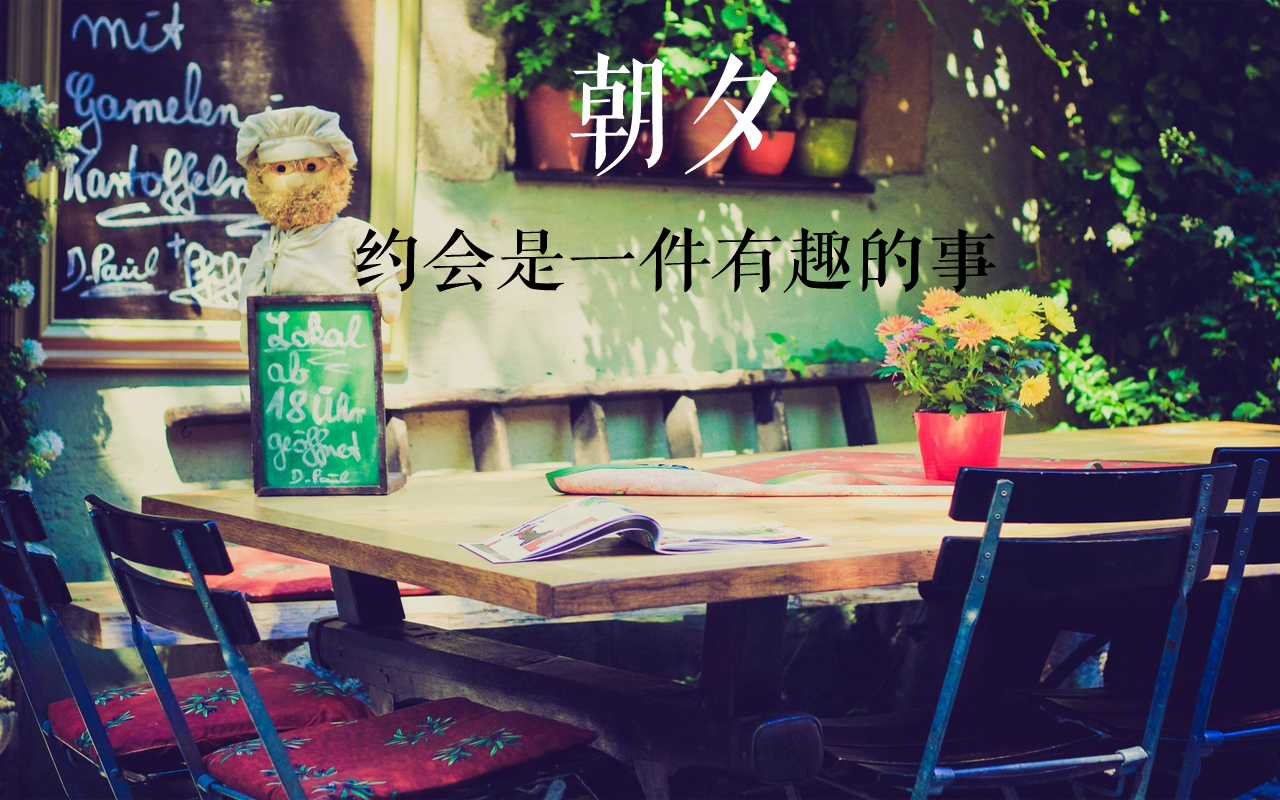
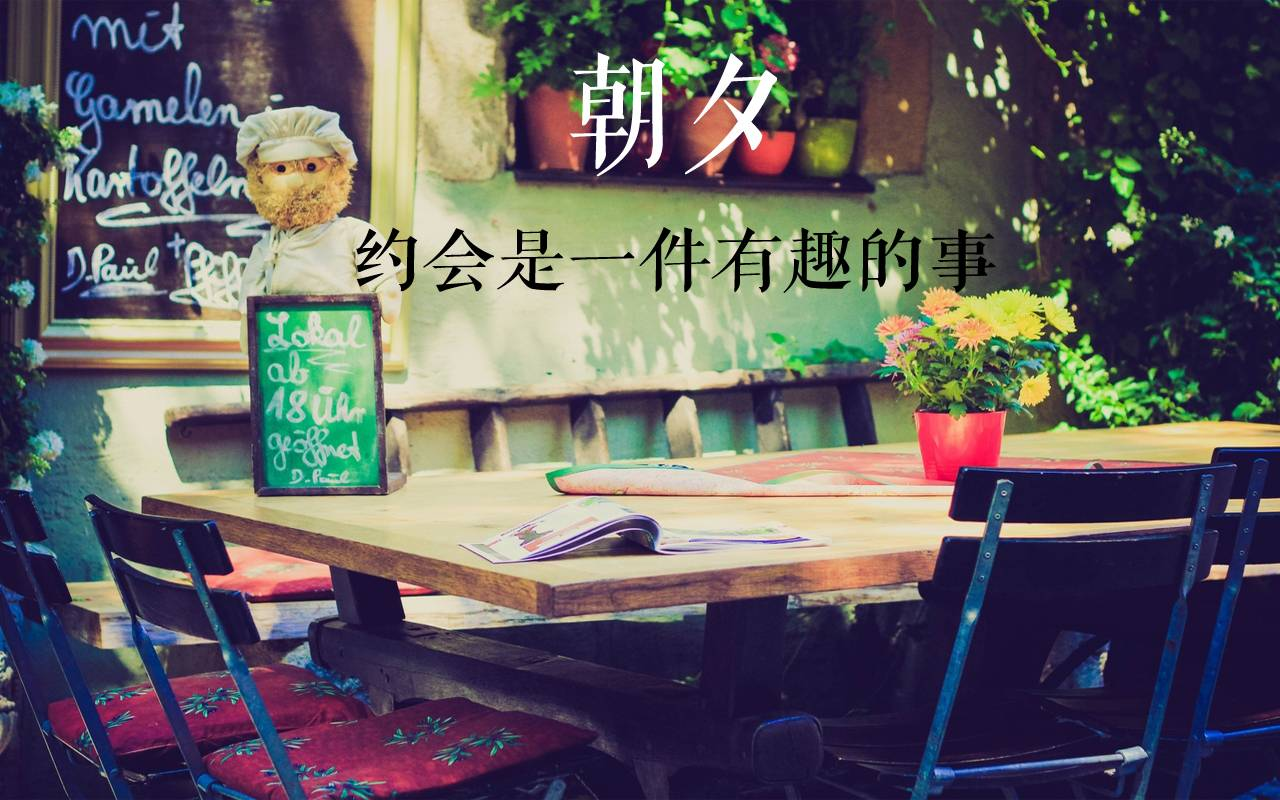
样式微调
送花按钮改为wow；
注册页背景图压缩

diff --git a/web/static/css/match.css b/web/static/css/match.css
@@ -23,8 +23,8 @@ ul.list li a.send-flower{
     left: 100%;
     bottom: 0;
     width: 25px;
-    height: 50px;
-    background: url(../img/flower2.png) no-repeat;
+    height: 25px;
+    background: url(../img/flowerx.png) no-repeat;
 }
 ul.list li:last-child{
     margin-right: 0px;
